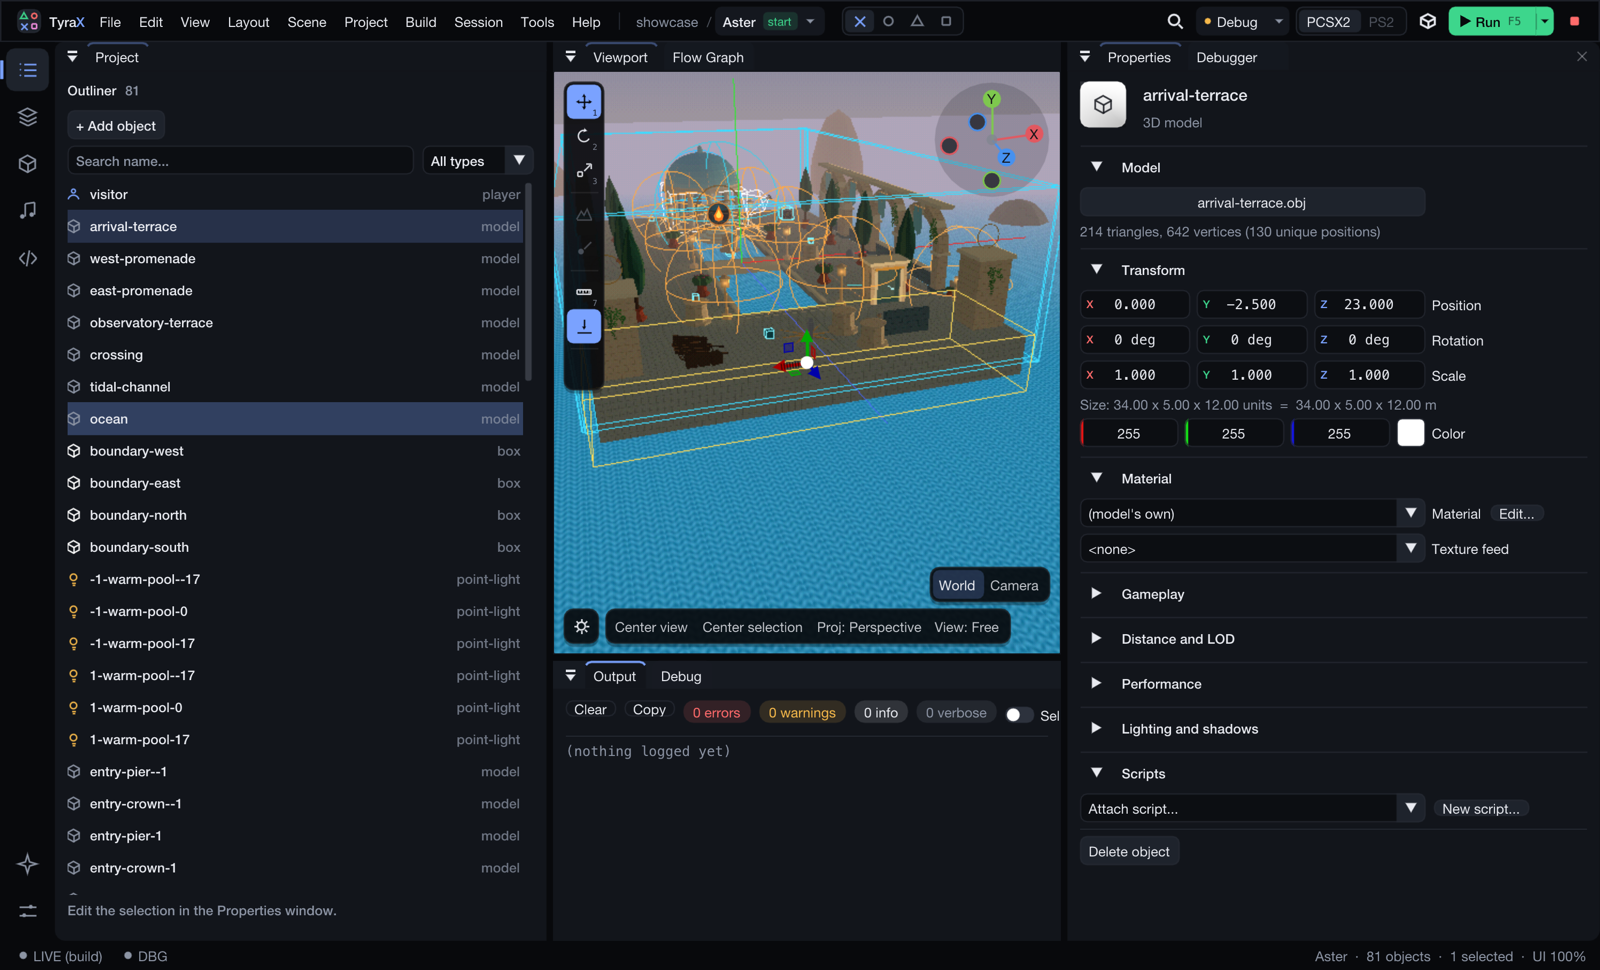
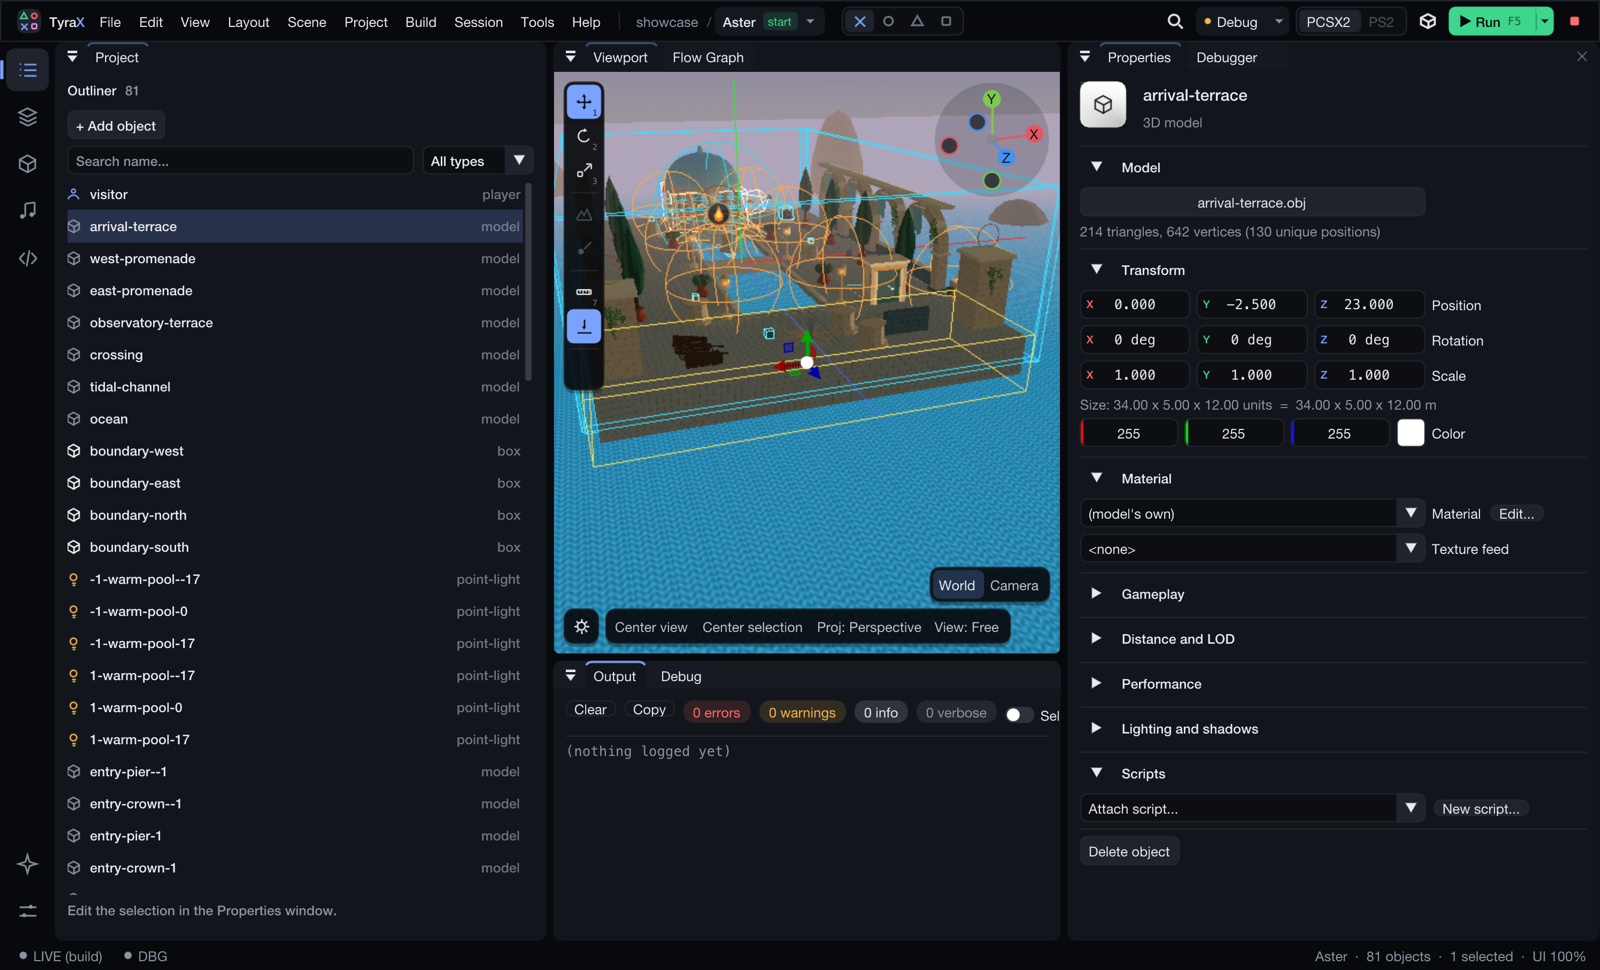
Editor redesign, step 8: panels as rounded cards (first ImGui patch)
Stock ImGui rounds a dock node only where it touches the dockspace's host
window, so with gaps between panels every card was square with a few rounded
outer corners. There is no style knob for it, so Dear ImGui now builds from
the in-tree copy (previous commit) with one patch:

- ImGuiStyle::DockNodeRounding (imgui.h/imgui.cpp, every hunk marked
  `// TYRAX:`): when > 0, a node's tab bar is drawn rounded on top and the
  docked window's background (and an empty node's) at the bottom, with that
  radius; scaled by ScaleAllSizes. 0 keeps upstream behaviour.
  vendor/imgui-tyrax/TYRAX-PATCHES.md lists it.
- theme::applyMetrics sets it to 8.
- The Viewport draws its texture with AddImageRounded over a Dummy (the same
  id-less item ImGui::Image submits - hover, drop target and the test-engine
  "Viewport canvas" rect unchanged) so the image's bottom corners follow the
  card.

Build: CMake's IMGUI_DIR is vendor/imgui-tyrax; imgui is dropped from
deps.sh AND deps.ps1 (with a note where it went); .gitignore tracks the new
directory; THIRD-PARTY-LICENSES says it is redistributed, modified. A stale
vendor/imgui from older setups is simply unused.

Verified (macOS): ./build.sh --clean configures and builds against the
in-tree copy; --ui-script runs (left rail pages + selection asserts, viewport
tool palette + projection popup) exit 0; screenshot shows every panel as a
rounded card including the viewport. Windows (MinGW) build not run here -
[…]

Changed region(s): [[0.0312, 0.4021, 0.3438, 0.4639]]

diff --git a/vendor/imgui-tyrax/imgui.cpp b/vendor/imgui-tyrax/imgui.cpp
@@ -1599,6 +1599,7 @@ ImGuiStyle::ImGuiStyle()
     DisplaySafeAreaPadding      = ImVec2(3,3);      // If you cannot see the edge of your screen (e.g. on a TV) increase the safe area padding. Covers popups/tooltips as well regular windows.
     DockingNodeHasCloseButton   = true;             // Docking nodes have their own CloseButton() to close all docked windows.
     DockingSeparatorSize        = 2.0f;             // Thickness of resizing border between docked windows
+    DockNodeRounding            = 0.0f;             // TYRAX: 0 = upstream (round only where a node touches its host)
     MouseCursorScale            = 1.0f;             // Scale software rendered mouse cursor (when io.MouseDrawCursor is enabled). May be removed later.
     AntiAliasedLines            = true;             // Enable anti-aliased lines/borders. Disable if you are really tight on CPU/GPU.
     AntiAliasedLinesUseTex      = true;             // Enable anti-aliased lines/borders using textures where possible. Require backend to render with bilinear filtering (NOT point/nearest filtering).
@@ -1675,6 +1676,7 @@ void ImGuiStyle::ScaleAllSizes(float scale_factor)
     SeparatorTextBorderSize = ImTrunc(SeparatorTextBorderSize * scale_factor);
     SeparatorTextPadding = ImTrunc(SeparatorTextPadding * scale_factor);
     DockingSeparatorSize = ImTrunc(DockingSeparatorSize * scale_factor);
+    DockNodeRounding = ImTrunc(DockNodeRounding * scale_factor); // TYRAX
     DisplayWindowPadding = ImTrunc(DisplayWindowPadding * scale_factor);
     DisplaySafeAreaPadding = ImTrunc(DisplaySafeAreaPadding * scale_factor);
     MouseCursorScale = ImTrunc(MouseCursorScale * scale_factor);
@@ -7661,14 +7663,20 @@ void ImGui::RenderWindowDecorations(ImGuiWindow* window, const ImRect& title_bar
             {
                 ImRect bg_rect(window->Pos + ImVec2(0, window->TitleBarHeight), window->Pos + window->Size);
                 ImDrawFlags bg_rounding_flags;
-                if (window->DockIsActive)
+                float bg_rounding = window_rounding; // TYRAX
+                if (window->DockIsActive && g.Style.DockNodeRounding > 0.0f) // TYRAX: docked panels as rounded cards
+                {
+                    bg_rounding = g.Style.DockNodeRounding;
+                    bg_rounding_flags = window->DockNode->IsHiddenTabBar() || window->DockNode->IsNoTabBar() ? ImDrawFlags_RoundCornersAll : ImDrawFlags_RoundCornersBottom;
+                }
+                else if (window->DockIsActive)
                     bg_rounding_flags = CalcRoundingFlagsForRectInRect(bg_rect, window->DockNode->HostWindow->Rect(), 0.0f);
                 else
                     bg_rounding_flags = (flags & ImGuiWindowFlags_NoTitleBar) ? ImDrawFlags_RoundCornersAll : ImDrawFlags_RoundCornersBottom;
                 ImDrawList* bg_draw_list = window->DockIsActive ? window->DockNode->HostWindow->DrawList : window->DrawList;
                 if (window->DockIsActive)
                     bg_draw_list->ChannelsSetCurrent(DOCKING_HOST_DRAW_CHANNEL_BG);
-                bg_draw_list->AddRectFilled(bg_rect.Min, bg_rect.Max, bg_col, window_rounding, bg_rounding_flags);
+                bg_draw_list->AddRectFilled(bg_rect.Min, bg_rect.Max, bg_col, bg_rounding, bg_rounding_flags); // TYRAX: bg_rounding
                 if (window->DockIsActive)
                     bg_draw_list->ChannelsSetCurrent(DOCKING_HOST_DRAW_CHANNEL_FG);
             }
@@ -18279,8 +18287,10 @@ void ImGui::DockContextEndFrame(ImGuiContext* ctx)
             {
                 ImRect bg_rect(node->Pos + ImVec2(0.0f, GetFrameHeight()), node->Pos + node->Size);
                 ImDrawFlags bg_rounding_flags = CalcRoundingFlagsForRectInRect(bg_rect, node->HostWindow->Rect(), g.Style.DockingSeparatorSize);
+                float bg_rounding = node->HostWindow->WindowRounding; // TYRAX
+                if (g.Style.DockNodeRounding > 0.0f) { bg_rounding = g.Style.DockNodeRounding; bg_rounding_flags = ImDrawFlags_RoundCornersBottom; } // TYRAX
                 node->HostWindow->DrawList->ChannelsSetCurrent(DOCKING_HOST_DRAW_CHANNEL_BG);
-                node->HostWindow->DrawList->AddRectFilled(bg_rect.Min, bg_rect.Max, node->LastBgColor, node->HostWindow->WindowRounding, bg_rounding_flags);
+                node->HostWindow->DrawList->AddRectFilled(bg_rect.Min, bg_rect.Max, node->LastBgColor, bg_rounding, bg_rounding_flags);
             }
 }
 
@@ -19786,7 +19796,9 @@ static void ImGui::DockNodeUpdateTabBar(ImGuiDockNode* node, ImGuiWindow* host_w
         node->LastFrameFocused = g.FrameCount;
     ImU32 title_bar_col = GetColorU32(host_window->Collapsed ? ImGuiCol_TitleBgCollapsed : is_focused ? ImGuiCol_TitleBgActive : ImGuiCol_TitleBg);
     ImDrawFlags rounding_flags = CalcRoundingFlagsForRectInRect(title_bar_rect, host_window->Rect(), g.Style.DockingSeparatorSize);
-    host_window->DrawList->AddRectFilled(title_bar_rect.Min, title_bar_rect.Max, title_bar_col, host_window->WindowRounding, rounding_flags);
+    float title_rounding = host_window->WindowRounding; // TYRAX
+    if (g.Style.DockNodeRounding > 0.0f) { title_rounding = g.Style.DockNodeRounding; rounding_flags = ImDrawFlags_RoundCornersTop; } // TYRAX: tab bar = the card's top
+    host_window->DrawList->AddRectFilled(title_bar_rect.Min, title_bar_rect.Max, title_bar_col, title_rounding, rounding_flags);
 
     // Docking/Collapse button
     if (has_window_menu_button)

diff --git a/vendor/imgui-tyrax/imgui.h b/vendor/imgui-tyrax/imgui.h
@@ -2460,6 +2460,7 @@ struct ImGuiStyle
     ImVec2      DisplaySafeAreaPadding;     // Apply to every windows, menus, popups, tooltips: amount where we avoid displaying contents. Adjust if you cannot see the edges of your screen (e.g. on a TV where scaling has not been configured).
     bool        DockingNodeHasCloseButton;  // Docking node has their own CloseButton() to close all docked windows.
     float       DockingSeparatorSize;       // Thickness of resizing border between docked windows
+    float       DockNodeRounding;           // TYRAX: >0 = every dock node is drawn as its own rounded card (tab bar rounded on top, window background at the bottom) instead of only the corners touching the host. 0 = upstream behaviour.
     float       MouseCursorScale;           // Scale software rendered mouse cursor (when io.MouseDrawCursor is enabled). We apply per-monitor DPI scaling over this scale. May be removed later.
     bool        AntiAliasedLines;           // Enable anti-aliased lines/borders. Disable if you are really tight on CPU/GPU. Latched at the beginning of the frame (copied to ImDrawList).
     bool        AntiAliasedLinesUseTex;     // Enable anti-aliased lines/borders using textures where possible. Require backend to render with bilinear filtering (NOT point/nearest filtering). Latched at the beginning of the frame (copied to ImDrawList).

diff --git a/src/app.cpp b/src/app.cpp
@@ -2699,8 +2699,14 @@ void App::drawViewportWindow() {
         // phone is a viewfinder onto the editor's own image rather than a
         // second, subtly different render.
         phoneCamPushPreview();
-        // Flip vertically: GL texture origin is bottom-left
-        ImGui::Image((ImTextureID)(intptr_t)tex, avail, ImVec2(0, 1), ImVec2(1, 0));
+        // Flip vertically: GL texture origin is bottom-left. Drawn by hand
+        // over a Dummy (the same id-less item ImGui::Image submits, so hover,
+        // the drop target and the test-engine rect below are unchanged) to
+        // round its bottom corners with the panel card's (DockNodeRounding).
+        ImGui::Dummy(avail);
+        ImGui::GetWindowDrawList()->AddImageRounded(
+            (ImTextureID)(intptr_t)tex, ImGui::GetItemRectMin(), ImGui::GetItemRectMax(), ImVec2(0, 1),
+            ImVec2(1, 0), IM_COL32_WHITE, ImGui::GetStyle().DockNodeRounding, ImDrawFlags_RoundCornersBottom);
 #ifdef IMGUI_ENABLE_TEST_ENGINE
         // Image has no item ID: expose its rectangle to unattended picking tests.
         if (GImGui->TestEngineHookItems) {

diff --git a/src/version.hpp b/src/version.hpp
@@ -5543,6 +5543,9 @@
 // Project on the left. --ui-script `key ctrl+X` now sends Super on macOS
 // (ImGui swaps Ctrl/Cmd under ConfigMacOSXBehaviors), so it reaches Ctrl
 // shortcuts there.
+// Dear ImGui moves in-tree (vendor/imgui-tyrax, dropped from deps.sh/deps.ps1)
+// for its first patch, ImGuiStyle::DockNodeRounding: dock nodes as rounded
+// cards. The viewport image is AddImageRounded over a Dummy.
 // 1.172.0: the macOS app. installer/build-macos.sh makes a signed, notarized
 // TyraX.app in a drag-to-Applications .dmg (release.yml build-macos, arm64 +
 // x86_64); platform::resourceBinDir maps shipped-file lookups onto

diff --git a/src/theme.cpp b/src/theme.cpp
@@ -268,6 +268,9 @@ void applyMetrics(ImGuiStyle& s) {
     // become separate cards on the ground colour - pushDockspaceColors) and to
     // grab for resizing; ImGui draws it with the dockspace host's WindowBg.
     s.DockingSeparatorSize = 6.0f;
+    // ...and each docked panel a rounded card of its own (an in-tree ImGui
+    // patch: vendor/imgui-tyrax/TYRAX-PATCHES.md).
+    s.DockNodeRounding = 8.0f;
     s.SeparatorTextBorderSize = 1.0f;
     s.SeparatorTextPadding = ImVec2(16, 4);
     s.DisabledAlpha = 0.50f;

diff --git a/src/app_internal.hpp b/src/app_internal.hpp
@@ -144,7 +144,7 @@ inline std::string readTextFileTail(const std::string& path, size_t maxBytes) {
     return data;
 }
 
-// ImGui's own std::string bridge (vendor/imgui/misc/cpp/imgui_stdlib.cpp is
+// ImGui's own std::string bridge (imgui_stdlib.cpp from upstream misc/ is
 // not in the build): the widget writes into the string's own buffer and asks
 // for a bigger one through this callback, so the field has no length limit.
 inline int growString(ImGuiInputTextCallbackData* d) {

diff --git a/.agents/skills/tyra-editor-dev/references/editor-ui-and-conventions.md b/.agents/skills/tyra-editor-dev/references/editor-ui-and-conventions.md
@@ -73,6 +73,7 @@ A new setting lands inside this shape:
 - Properties (props_ui.cpp) uses `ui::Switch` instead of `Checkbox` (same signature/return/MixedValue; it calls `IMGUI_TEST_ENGINE_ITEM_INFO` with `Checkable|Checked` itself - any new switch-like widget must too, or `expect-checked` breaks) and `ui::Section` instead of `CollapsingHeader` (same ID, no band). The header's "Name" InputText is clipped to its own rect so its label is never drawn; keep the label (scripts type into `Properties/Name`). Switch knobs ease over ~0.1 s of `DeltaTime`; `--ui-script` frames are much shorter than 1/60 s, so `wait 0.5` before a `shot` of a just-toggled switch.
 - Project panel = ONE page (`leftPage_`, picked by `drawRail` in shell_ui.cpp: Outliner / Layers / Assets / Audio / Scripts); `drawSceneSection`/`drawLayersSection`/`drawAssetsSection`/`drawScriptsSection` have no header any more, Music/Sounds use `ui::Section`. Rail buttons are named by page ("Outliner", "Assets"...) - a script must `click Assets` before targeting `Project/Browse assets...`. Outliner rows: `Selectable` with transparent text keeps the `name  (type)` label (ID, `expect-checked` via `markLastItemChecked`), icon/name/type drawn on top.
 - Workspaces in the top bar (`drawToolbar`) are NOT a new concept: each finds the first `windowLayouts` entry with recipe Default/Debugger/Director/MenuDesigner and `switchLayout`s to it (no format change). The command palette (`palette_ui.cpp`) rebuilds its entry list every open frame; a new optional window wants a row in its `windowTitle` table. Its dim + card are drawn on the palette's OWN draw list with the clip opened to the viewport (the foreground list would dim the palette too); `ImGuiWindowFlags_NoBackground` for that reason.
+- Panels as rounded cards = `ImGuiStyle::DockNodeRounding` (an in-tree ImGui patch, `vendor/imgui-tyrax/TYRAX-PATCHES.md`) set by `theme::applyMetrics`: tab bar rounded on top, docked window bg at the bottom. Full-bleed content in a docked panel (the viewport image) must round its own bottom corners with `DockNodeRounding` - the Viewport draws its texture with `AddImageRounded` over a `Dummy` for that reason.
 - `src/widgets.hpp` (`ui::`): `boldFont()`/`monoFont()` (null = no face, `PushFont(nullptr,0)` keeps the current one), `FontScope`, `AxisDrag3` (DragScalarN skeleton: group + `PushID(label)` + unlabeled drags + `TextEx` label - like stock DragFloat3 the label is NOT a `--ui-script` name; target the fields by `dump` rect). New shared widgets go here and keep ImGui's label=ID / return / `IsItemDeactivatedAfterEdit` contract. The log panels measure (`logRefresh`) AND draw in the mono face - keep both inside the push.
 - `App::applyTheme()` = colours + metrics + scale, in that order; `baseStyle_` IS the themed style (`applyUiScale()` resets to it on every zoom step), and it must run AFTER `ImNodes::CreateContext()`. `ImGuiStyle`'s ctor leaves `FontSizeBase` 0, so the scale path restores `uiFontSize_` (0 = keep the built-in font's size). The EDITOR's font chains are `platform::uiFontFiles` (regular + same-family heading cut, `.ttc` face index) and `platform::monoFontFiles` (separate from game font lookup); no variable fonts (stb_truetype cannot pick a weight).
 

diff --git a/.claude/skills/tyra-editor-dev/references/editor-ui-and-conventions.md b/.claude/skills/tyra-editor-dev/references/editor-ui-and-conventions.md
@@ -73,6 +73,7 @@ A new setting lands inside this shape:
 - Properties (props_ui.cpp) uses `ui::Switch` instead of `Checkbox` (same signature/return/MixedValue; it calls `IMGUI_TEST_ENGINE_ITEM_INFO` with `Checkable|Checked` itself - any new switch-like widget must too, or `expect-checked` breaks) and `ui::Section` instead of `CollapsingHeader` (same ID, no band). The header's "Name" InputText is clipped to its own rect so its label is never drawn; keep the label (scripts type into `Properties/Name`). Switch knobs ease over ~0.1 s of `DeltaTime`; `--ui-script` frames are much shorter than 1/60 s, so `wait 0.5` before a `shot` of a just-toggled switch.
 - Project panel = ONE page (`leftPage_`, picked by `drawRail` in shell_ui.cpp: Outliner / Layers / Assets / Audio / Scripts); `drawSceneSection`/`drawLayersSection`/`drawAssetsSection`/`drawScriptsSection` have no header any more, Music/Sounds use `ui::Section`. Rail buttons are named by page ("Outliner", "Assets"...) - a script must `click Assets` before targeting `Project/Browse assets...`. Outliner rows: `Selectable` with transparent text keeps the `name  (type)` label (ID, `expect-checked` via `markLastItemChecked`), icon/name/type drawn on top.
 - Workspaces in the top bar (`drawToolbar`) are NOT a new concept: each finds the first `windowLayouts` entry with recipe Default/Debugger/Director/MenuDesigner and `switchLayout`s to it (no format change). The command palette (`palette_ui.cpp`) rebuilds its entry list every open frame; a new optional window wants a row in its `windowTitle` table. Its dim + card are drawn on the palette's OWN draw list with the clip opened to the viewport (the foreground list would dim the palette too); `ImGuiWindowFlags_NoBackground` for that reason.
+- Panels as rounded cards = `ImGuiStyle::DockNodeRounding` (an in-tree ImGui patch, `vendor/imgui-tyrax/TYRAX-PATCHES.md`) set by `theme::applyMetrics`: tab bar rounded on top, docked window bg at the bottom. Full-bleed content in a docked panel (the viewport image) must round its own bottom corners with `DockNodeRounding` - the Viewport draws its texture with `AddImageRounded` over a `Dummy` for that reason.
 - `src/widgets.hpp` (`ui::`): `boldFont()`/`monoFont()` (null = no face, `PushFont(nullptr,0)` keeps the current one), `FontScope`, `AxisDrag3` (DragScalarN skeleton: group + `PushID(label)` + unlabeled drags + `TextEx` label - like stock DragFloat3 the label is NOT a `--ui-script` name; target the fields by `dump` rect). New shared widgets go here and keep ImGui's label=ID / return / `IsItemDeactivatedAfterEdit` contract. The log panels measure (`logRefresh`) AND draw in the mono face - keep both inside the push.
 - `App::applyTheme()` = colours + metrics + scale, in that order; `baseStyle_` IS the themed style (`applyUiScale()` resets to it on every zoom step), and it must run AFTER `ImNodes::CreateContext()`. `ImGuiStyle`'s ctor leaves `FontSizeBase` 0, so the scale path restores `uiFontSize_` (0 = keep the built-in font's size). The EDITOR's font chains are `platform::uiFontFiles` (regular + same-family heading cut, `.ttc` face index) and `platform::monoFontFiles` (separate from game font lookup); no variable fonts (stb_truetype cannot pick a weight).
 

diff --git a/.agents/skills/tyra-editor-dev/references/build-platform-release.md b/.agents/skills/tyra-editor-dev/references/build-platform-release.md
@@ -30,7 +30,7 @@ Read when you touch build/setup/deps scripts, `CMakeLists.txt`, `platform.cpp`, 
 
 ## Dependencies
 
-- Missing `vendor/` deps are fetched by `setup.ps1`/`setup.sh` (imgui docking, glfw 3.4, imguizmo, imnodes, stb, ufbx, miniaudio - git-ignored; `vendor/tyra` is versioned, see tyra-engine-dev); the build script runs setup when something is absent. **The dependency list lives ONLY in `deps.ps1`/`deps.sh`** - add a library to BOTH and nowhere else (one-sided: cmake says `Cannot find source file: vendor/<x>` on the other platform).
+- Missing `vendor/` deps are fetched by `setup.ps1`/`setup.sh` (glfw 3.4, imguizmo, imnodes, stb, ufbx, miniaudio - git-ignored; `vendor/tyra` is versioned, see tyra-engine-dev). **Dear ImGui is NOT fetched**: it is tracked in `vendor/imgui-tyrax` (upstream docking `b334d19b`, only the compiled subset) with `// TYRAX:` patches listed in its `TYRAX-PATCHES.md` - patch it there, mark the hunk, add a row. A stale `vendor/imgui` clone from older setups is simply unused; the build script runs setup when something is absent. **The dependency list lives ONLY in `deps.ps1`/`deps.sh`** - add a library to BOTH and nowhere else (one-sided: cmake says `Cannot find source file: vendor/<x>` on the other platform).
 - Every entry pins an exact `Commit` SHA and names a `Mirror` (our `doctorspider42/tyrax-vendor-*` fork, used when upstream fails); `Ref` is documentation only. **Never put a branch name where a SHA belongs** (setup skips a directory whose probe exists, so a branch pin freezes at whatever HEAD that machine fetched). Bump: new SHA in both lists (`gh repo sync` the mirror first), delete the vendor dir, re-run setup, build. A new dependency needs its notice in `THIRD-PARTY-LICENSES.md`; if small and redistributable, prefer vendoring in-tree.
 
 ## Platform parity: files that exist twice

diff --git a/.claude/skills/tyra-editor-dev/references/build-platform-release.md b/.claude/skills/tyra-editor-dev/references/build-platform-release.md
@@ -30,7 +30,7 @@ Read when you touch build/setup/deps scripts, `CMakeLists.txt`, `platform.cpp`, 
 
 ## Dependencies
 
-- Missing `vendor/` deps are fetched by `setup.ps1`/`setup.sh` (imgui docking, glfw 3.4, imguizmo, imnodes, stb, ufbx, miniaudio - git-ignored; `vendor/tyra` is versioned, see tyra-engine-dev); the build script runs setup when something is absent. **The dependency list lives ONLY in `deps.ps1`/`deps.sh`** - add a library to BOTH and nowhere else (one-sided: cmake says `Cannot find source file: vendor/<x>` on the other platform).
+- Missing `vendor/` deps are fetched by `setup.ps1`/`setup.sh` (glfw 3.4, imguizmo, imnodes, stb, ufbx, miniaudio - git-ignored; `vendor/tyra` is versioned, see tyra-engine-dev). **Dear ImGui is NOT fetched**: it is tracked in `vendor/imgui-tyrax` (upstream docking `b334d19b`, only the compiled subset) with `// TYRAX:` patches listed in its `TYRAX-PATCHES.md` - patch it there, mark the hunk, add a row. A stale `vendor/imgui` clone from older setups is simply unused; the build script runs setup when something is absent. **The dependency list lives ONLY in `deps.ps1`/`deps.sh`** - add a library to BOTH and nowhere else (one-sided: cmake says `Cannot find source file: vendor/<x>` on the other platform).
 - Every entry pins an exact `Commit` SHA and names a `Mirror` (our `doctorspider42/tyrax-vendor-*` fork, used when upstream fails); `Ref` is documentation only. **Never put a branch name where a SHA belongs** (setup skips a directory whose probe exists, so a branch pin freezes at whatever HEAD that machine fetched). Bump: new SHA in both lists (`gh repo sync` the mirror first), delete the vendor dir, re-run setup, build. A new dependency needs its notice in `THIRD-PARTY-LICENSES.md`; if small and redistributable, prefer vendoring in-tree.
 
 ## Platform parity: files that exist twice

diff --git a/vendor/imgui-tyrax/TYRAX-PATCHES.md b/vendor/imgui-tyrax/TYRAX-PATCHES.md
@@ -1,0 +1,16 @@
+# Dear ImGui, as patched for TyraX
+
+This directory is [Dear ImGui](https://github.com/ocornut/imgui) — the
+`docking` branch at `b334d19b667958ed970000073644d911fae17e57` (1.92.9) — kept
+**in the repository** rather than fetched by `setup.sh` / `setup.ps1`, so the
+editor can carry small patches to it. Only the files the editor compiles are
+here (the core, the GLFW and OpenGL 3 backends, `imconfig.h`, the `imstb_*`
+headers and the license); `docs/`, `examples/` and `misc/` are not.
+
+Every change is marked with a `// TYRAX:` comment, so `grep -n TYRAX` lists
+them all and an upgrade is: copy the new upstream files over these, then re-apply
+each marked hunk.
+
+| Patch | Files | What and why |
+| --- | --- | --- |
+| `ImGuiStyle::DockNodeRounding` | `imgui.h`, `imgui.cpp` (style ctor, `ScaleAllSizes`, docked window background in `Begin`, `DockContextEndFrame`, `DockNodeUpdateTabBar` title bar) | When > 0, every dock node is drawn as its own rounded card: its tab bar rounded on top, its window background at the bottom. Upstream only rounds the corners that touch the dockspace's host window, which with gaps between the panels (`DockingSeparatorSize`) leaves square cards with rounded outer corners. 0 = upstream behaviour. Set by `theme::apply` (src/theme.cpp). |

diff --git a/CHANGELOG.md b/CHANGELOG.md
@@ -20,6 +20,7 @@ history.
 - **The Output and Debug logs** mark error and warning lines in a gutter, their level filters are coloured pills, and their on/off options are switches.
 - **Workspaces**: Scene, Logic, Cinema and UI & HUD in the top bar switch the window layout in one click (they are the Default, Debugger, Director and Menu Designer layouts). The Debugger layout now docks the Project panel on the left instead of leaving it floating.
 - **Command palette** - Ctrl+K (Cmd+K on a Mac) or the magnifier in the top bar: find and run commands, jump to an object, a scene, a window, a workspace or a documentation page by typing.
+- **Every panel is a rounded card** on the darker background, the viewport included.
 - **A status bar** along the bottom: the BUILDING / BUILD FAILED, LIVE, DBG, LOGIC and SESSION chips moved there from the top, with the scene's object and selection counts on the right. The Project panel no longer repeats the project's details and scene list - they are in the top bar.
 
 ## 1.172.0 - 2026-10-12
